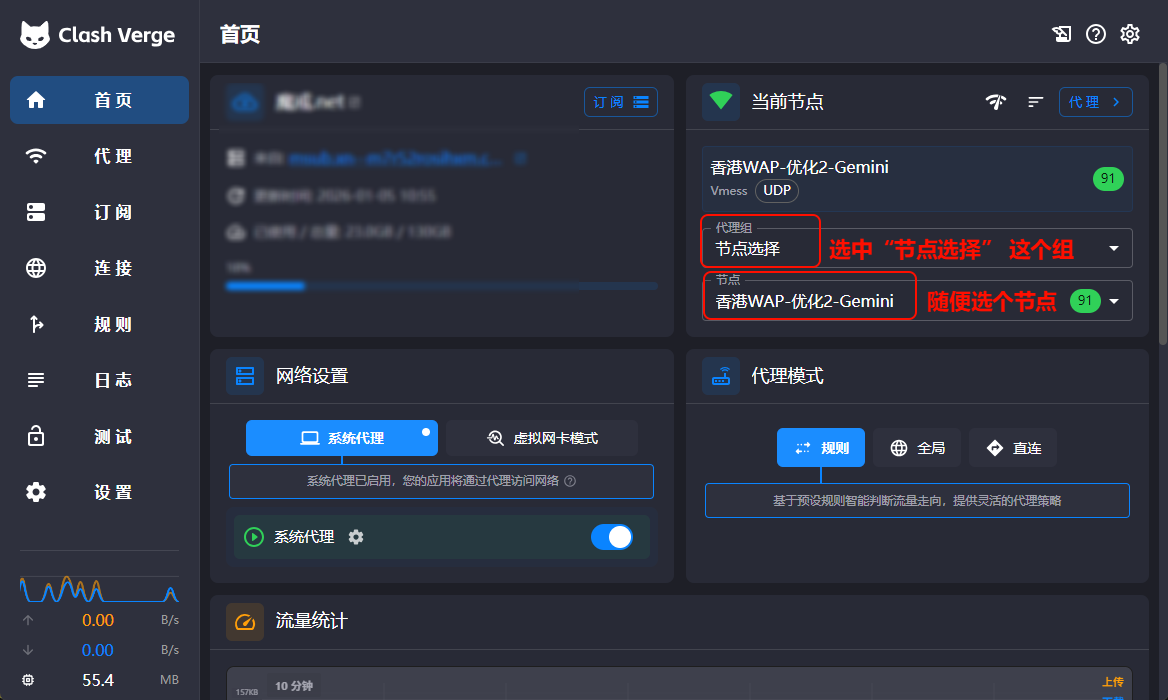
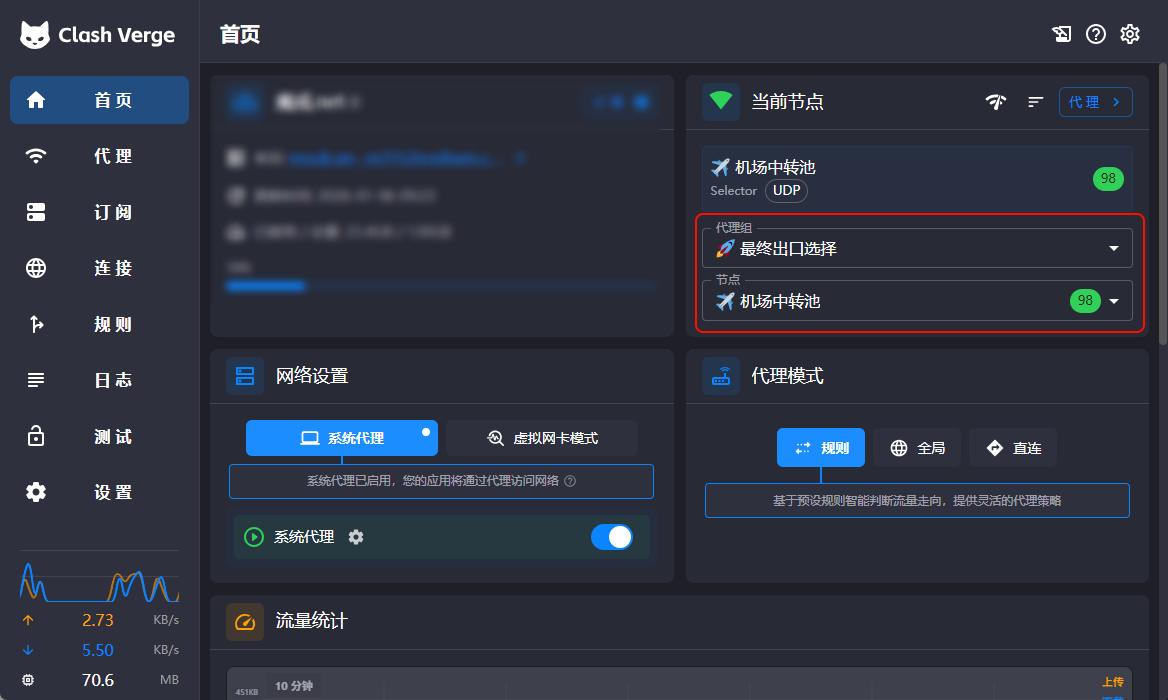
REFACTOR(blog): 重构 Clash Verge 链式代理脚本与教程结构
主要改进：
- 优化 JavaScript 脚本逻辑，简化代理组结构为两个核心分组
- 新增运行日志截图，增强配置验证说明
- 更新所有相关教程截图以匹配新的配置流程
- 调整文章结构，将原理说明移至配置步骤之后

🤖 Generated with [Claude Code](https://claude.com/claude-code)

diff --git a/src/content/blog/Clash Verge 配置链式代理.md b/src/content/blog/Clash Verge 配置链式代理.md
@@ -38,50 +38,7 @@ top: false
 
 ### 2. 添加链式代理脚本
 
-将以下脚本代码粘贴到编辑器中，并根据你购买的静态 IP 信息替换相应字段：
-
-```javascript
-// Define main function (script entry)
-// https://mihomo.party/docs/guide/override/javascript
-function main(config) {
-  // 创建一个名为 "all" 的代理组，它包含了配置文件里的每一个代理节点
-  const name = "all";
-  const allProxies = config.proxies.map((x) => x.name);
-  config["proxy-groups"].push({
-    name: name,
-    type: "select",
-    proxies: allProxies,
-  });
-
-  // 定义一个名为 "cliproxy" 的新代理节点，它会通过 "all" 代理组来中转连接
-  // server、port、username、password 替换成你购买的 IP 信息
-  config.proxies.push({
-    name: "cliproxy",
-    server: "xxxx.xxxx.xxxx.xxxx",
-    port: xxx,
-    username: "xxxx",
-    password: "xxxx",
-    type: "socks5",
-    "dialer-proxy": name,
-    udp: true,
-  });
-
-  // 为 "cliproxy" 这个节点创建一个专属的代理组，这个组叫 "静态IP"
-  config["proxy-groups"].push({
-    name: "静态IP",
-    type: "select",
-    proxies: ["cliproxy"],
-  });
-
-  // 自动将 "静态IP" 这个选项添加到现有的其他代理组中，方便在 Clash 界面中切换使用它
-  config["proxy-groups"].forEach((g) => {
-    if (g.name.endsWith("节点选择")) {
-      g.proxies.push("静态IP");
-    }
-  });
-  return config;
-}
-```
+将以下脚本代码粘贴到编辑器中，并根据你购买的静态 IP 信息替换相应字段。
 
 **需要替换的字段说明：**
 
@@ -90,23 +47,119 @@ function main(config) {
 - `username`：用户名
 - `password`：密码
 
+```javascript
+function main(config) {
+  // ================= 核心配置区域（需要修改） =================
+  const staticProxyConfig = {
+    name: "🔒 静态IP (出口)",
+    server: "xxxx.xxxx.xxxx.xxxx",
+    port: xxx,
+    username: "xxxxxx",
+    password: "xxxxxx",
+    type: "socks5",
+    udp: true,
+  };
+
+  // =========================================================
+
+  const groupAirportName = "✈ 机场中转池";
+  const groupFinalName = "🚀 最终出口选择";
+
+  // 1. 提取机场节点
+  const allProxies = config.proxies.map((p) => p.name);
+
+  // 2. 添加静态IP (链式指向机场池)
+  staticProxyConfig["dialer-proxy"] = groupAirportName;
+  config.proxies.push(staticProxyConfig);
+
+  // 3. 重置分组 (只保留两个核心分组)
+  config["proxy-groups"] = [
+    {
+      name: groupAirportName,
+      type: "select",
+      proxies: allProxies,
+    },
+    {
+      name: groupFinalName,
+      type: "select",
+      proxies: [
+        groupAirportName, // 选项1: 直连
+        staticProxyConfig.name, // 选项2: 走静态IP
+      ],
+    },
+  ];
+
+  // 4. 清洗已有规则
+  // 必须处理带有 no-resolve 的情况，同时修改分组指向
+  if (config.rules && config.rules.length > 0) {
+    const newRules = config.rules.map((rule) => {
+      const parts = rule.split(",");
+
+      // 确定哪一部分是策略组名称
+      // 如果最后一部分是 'no-resolve'，则策略组名称在倒数第二个
+      let policyIndex = parts.length - 1;
+      if (parts[parts.length - 1].trim() === "no-resolve") {
+        policyIndex = parts.length - 2;
+      }
+
+      // 获取当前的指向 (例如 "Copilot", "DIRECT", "Proxy")
+      const currentPolicy = parts[policyIndex];
+
+      // 如果指向不是 DIRECT 或 REJECT，就强制改成我们的最终分组
+      // 这样 Copilot 就会被改成 groupFinalName，但 no-resolve 会被保留
+      if (
+        !currentPolicy.startsWith("DIRECT") &&
+        !currentPolicy.startsWith("REJECT")
+      ) {
+        parts[policyIndex] = groupFinalName;
+      }
+
+      return parts.join(",");
+    });
+
+    // 确保有兜底规则
+    if (
+      newRules.length === 0 ||
+      !newRules[newRules.length - 1].startsWith("MATCH")
+    ) {
+      newRules.push(`MATCH,${groupFinalName}`);
+    }
+
+    config.rules = newRules;
+  } else {
+    // 如果没有规则，加一条兜底
+    config.rules = [`MATCH,${groupFinalName}`];
+  }
+
+  return config;
+}
+```
+
 ### 3. 保存配置
 
 点击保存按钮完成配置：
 
 ![脚本配置保存完成](/assets/images/article-clash-verge-chain-proxy/script-config-saved.png)
 
+### 4、原理说明
+
+这个配置的核心在于使用了 Clash 的 `dialer-proxy` 字段，实现了**链式代理**：
+
+1. **新增静态 IP 节点**：把购买的静态 IP 节点添加到配置中
+2. **清除原有分组规则**：把原有的各个分组清除，把其中的所有节点都统一到 "✈ 机场中转池" 分组中
+3. **添加最终出口分组**：新增 "🚀 最终出口选择" 分组，通过该分组轻松切换直连和中转模式
+
 ## 三、效果演示
 
-### 1. 查看新增的代理组
+### 1. 查看新的分组情况
 
-切换到「代理」标签页，可以看到新增了 `all` 和 `静态IP` 两个代理组：
+切换到「代理」标签页，可以看到现在只有 `✈ 机场中转池` 和 `🚀 最终出口选择` 两个代理组：
 
 ![代理组创建完成](/assets/images/article-clash-verge-chain-proxy/proxy-groups-created.png)
 
-### 2. 使用链式代理
+### 2. 使用静态 IP 出口
 
-选择「静态 IP」作为代理方式，流量将按照以下路径转发：
+在 「🚀 最终出口选择」中选择「🔒 静态 IP (出口)」时，流量将按照以下路径转发：
 
 ```
 本地 → 机场节点 → 静态 IP → 目标网站
@@ -116,24 +169,20 @@ function main(config) {
 
 ### 3. 验证配置结果
 
+在 Clash Verge 运行日志中查看运行日志，确认配置成功：
+
+![Clash Verge 运行日志](/assets/images/article-clash-verge-chain-proxy/clash-verge-run-log.png)
+
 访问 [IPPure](https://ippure.com/) 或 [Ping0](https://ping0.cc/) 检测当前 IP 地址：
 
 ![IP 检测结果显示静态 IP](/assets/images/article-clash-verge-chain-proxy/ip-detection-result.png)
 
 如果显示的是你购买的静态 IP 地址，说明配置成功！
 
-### 4. 切换回普通机场节点
+### 4. 使用机场节点直连模式
 
-如需直接使用机场节点（不经过静态 IP），直接选择其他节点即可：
+如需直接使用机场节点（不经过静态 IP），直接“✈ 机场中转池”即可：
 
 ![直接使用机场节点](/assets/images/article-clash-verge-chain-proxy/use-airport-direct.png)
 
-## 四、原理说明
-
-这个配置的核心在于使用了 Clash 的 `dialer-proxy` 字段，实现了**链式代理**：
-
-1. **all 代理组**：包含所有机场节点
-2. **cliproxy 节点**：静态 IP 代理，通过 `dialer-proxy: all` 指定使用机场节点作为出口
-3. **静态 IP 代理组**：单独管理 cliproxy 节点，方便切换使用
-
-通过这种方式，你可以灵活地在「普通机场模式」和「机场 + 静态 IP 链式模式」之间切换，适用于跨境电商账号管理、独立开发测试等需要固定 IP 的场景。
+通过这种方式，你可以灵活地在「机场直连模式」和「机场 + 静态 IP 模式」之间切换，适用于跨境电商账号管理、独立开发测试等需要固定 IP 的场景。
